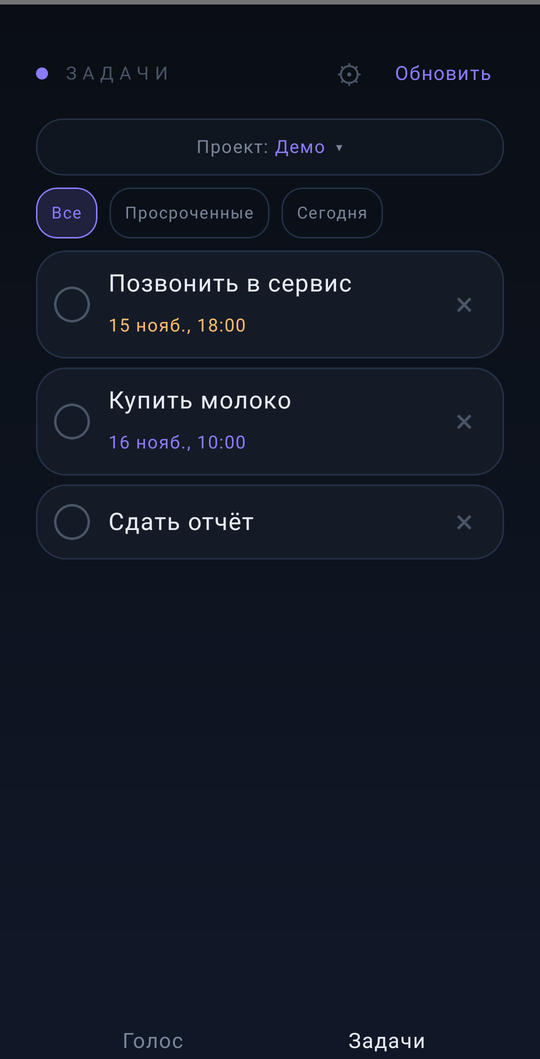
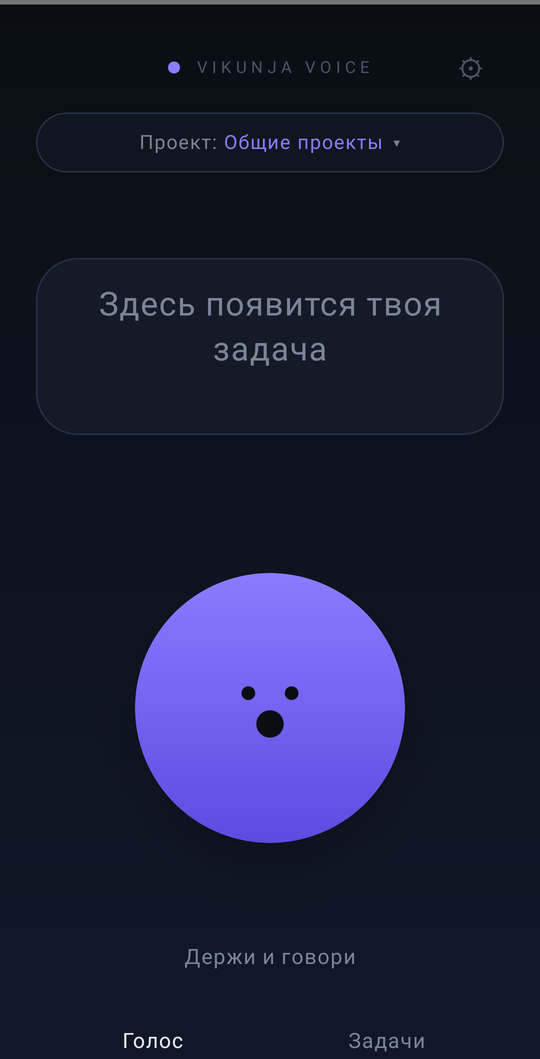
docs: fix voice screenshot; remove settings screenshot

diff --git a/README.md b/README.md
@@ -2,9 +2,9 @@
 
 Android-приложение: **говоришь задачу голосом — она появляется в [Vikunja](https://vikunja.io)**.
 
-| Голос | Задачи | Настройки |
-|:---:|:---:|:---:|
-| ![Голос](docs/screens/voice.png) | ![Задачи](docs/screens/tasks.png) | ![Настройки](docs/screens/settings.png) |
+| Голос | Задачи |
+|:---:|:---:|
+| ![Голос](docs/screens/voice.png) | ![Задачи](docs/screens/tasks.png) |
 
 ## Как работает
 
